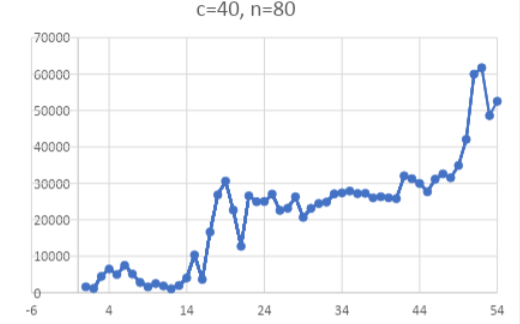
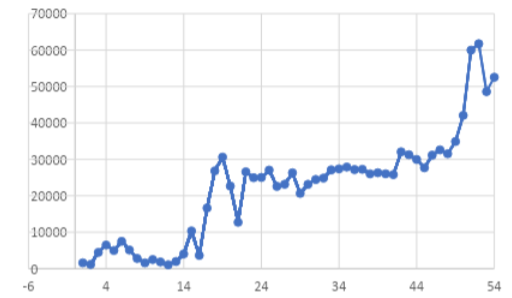
upd minor on charts

diff --git a/leader/includes/chart.html b/leader/includes/chart.html
@@ -2,107 +2,124 @@
 <script src="https://code.highcharts.com/modules/exporting.js"></script>
 <script src="https://code.highcharts.com/modules/export-data.js"></script>
 <script src="https://code.highcharts.com/modules/accessibility.js"></script>
-
-        <div class="row h-50 d-inline-block w-100" id="chartwrapper">
-          <div id="container"></div>
-          <script>
-            var chart = Highcharts.chart("container",
-              {
+<style>
+    #chartwrapper {
+        min-height: 400px !important; /* Adjust based on your preference */
+    }
+</style>
+<div class="row h-50 d-inline-block w-100" id="chartwrapper">
+    <div id="container"></div>
+    <script>
+        var chart = Highcharts.chart("container",
+            {
+                legend: {
+                    enabled: true,
+                    layout: 'vertical', // Options: 'horizontal' or 'vertical'
+                    align: 'right',      // Positioning: 'left', 'center', 'right'
+                    verticalAlign: 'top', // 'top', 'middle', 'bottom'
+                    x: -10, // Adjust horizontal positioning (move left/right)
+                    y: 50,  // Adjust vertical positioning (move up/down)
+                    floating: true, // Allows the legend to be placed over the chart
+                    backgroundColor: 'rgba(255, 255, 255, 0.8)', // Optional: Adds a transparent white background for better visibility
+                    borderRadius: 5,  // Optional: Adds rounded corners
+                    borderWidth: 1, // Optional: Adds a border
+                    shadow: false // Optional: Removes shadow
+                },
                 exporting: {
-                  enabled: false,
+                    enabled: false,
                 },
                 credits: {
-                  enabled: false,
+                    enabled: false,
                 },
                 chart: {
 
-                  type: "line",
+                    type: "line",
 
-                  height: "400px",
+                    height: "500px",
                 },
                 title: {
-                  text: "Sales of ACME Corp.",
+                    text: "Sales of ACME Corp.",
                 },
                 subtitle: {
-                  text: "",
+                    text: "",
                 },
                 xAxis: {
-                  allowDecimals: false,
-                  reversed: false,
-                  title: {
-                    enabled: true,
-                    text: "Months",
-                  },
+                    allowDecimals: false,
+                    reversed: false,
+                    title: {
+                        enabled: true,
+                        text: "Months",
+                    },
 
-                  maxPadding: 0.05,
-                  showLastLabel: true,
+                    maxPadding: 0.05,
+                    showLastLabel: true,
                 },
                 yAxis: {
-                  title: {
-                    text: "sales $M",
-                  },
-                  labels: {
-                    format: "{value}",
-                  },
-                  
-                  lineWidth: 2,
+                    title: {
+                        text: "sales $M",
+                    },
+                    labels: {
+                        format: "{value}",
+                    },
+
+                    lineWidth: 2,
                 },
-                legend: {
-                  enabled: true,
-                },
+
                 tooltip: {
-                  headerFormat: "<b>{series.name}</b><br/>",
-                  pointFormat: " {point.y}",
+                    headerFormat: "<b>{series.name}</b><br/>",
+                    pointFormat: " {point.y}",
                 },
                 plotOptions: {
-                  series: {
-                    states: {
-            inactive: {
-                opacity: 1
-            }
-        },
-                    marker: {
-                      
-                      symbol: 'circle',
-                      enable: true,
-                      radius:5
+                    series: {
+                        states: {
+                            inactive: {
+                                opacity: 1
+                            }
+                        },
+                        marker: {
+
+                            symbol: 'circle',
+                            enable: true,
+                            radius: 5
+                        },
                     },
-                  },
                 },
-                
-                series: [ 
-                        {{if view.round_number > 1 }} 
-                    {name:'Your forecast',
-                        data:{{group.prognosis_data|json}},
+
+                series: [
+                    {{if view.round_number > 1 }}
+                    {
+                        name: 'Your forecast',
+                        data: {{group.prognosis_data|json}},
                         dashStyle: 'ShortDot'
                     },
-                    {name:'True values',
-                        data:{{group.true_values|json}},
+                    {
+                        name: 'True values',
+                        data: {{group.true_values|json}},
                         dashStyle: 'Solid'
                     },
                     {{endif}}
-                  {
-                    
-                    name:'Previous values',
-                    data: {{C.GRAPHS_DATA|json}},
-                    
-                  },
+                    {
+
+                        name: 'Previous values',
+                        data: {{C.GRAPHS_DATA|json}},
+
+                    },
                 ],
-              },
-              function (chart) {
+            },
+            function (chart) {
                 var setHeight = function () {
-                  let box = document.getElementById("chartwrapper");
-                  let width = box.offsetWidth;
-                  let height = box.offsetHeight;
-                  chart.setSize(width, height - 20);
+                    let box = document.getElementById("chartwrapper");
+                    let width = box.offsetWidth;
+                    let height = box.offsetHeight;
+                    chart.setSize(width, height - 20);
                 };
 
                 $(window).resize(setHeight);
 
                 setHeight();
-              }
-            );
-          </script>
-        </div>
+            }
+        );
+    </script>
+</div>
     
      

diff --git a/leader/includes/short_instructions.html b/leader/includes/short_instructions.html
@@ -1407,7 +1407,7 @@ ul
 
    <div class=WordSection1>
     <p class=MsoNormal style='text-align:justify;line-height:normal'>
-    We have a historical sales data with 48 monthly data points, and we need to forecast the impact of a sales promotion that will run from periods 49 to 54. Notably, a similar sales promotion was conducted in the past during periods 16 to 23. Using the data from this previous sales promotion and any other information in the time series you find useful, please generate the forecast ACME Inc.’s sales for the new promotion
+    <b>We have a historical sales data with 48 monthly data points, and we need to forecast the impact of a sales promotion that will run from periods 49 to 54. Notably, a similar sales promotion was conducted in the past during periods 16 to 23. </b> Using the data from this previous sales promotion and any other information in the time series you find useful, please generate the forecast ACME Inc.’s sales for the new promotion
     </p>
 </div>
 <div class=WordSection1>

diff --git a/leader/includes/time.html b/leader/includes/time.html
@@ -1,6 +1,6 @@
 <div class=WordSection1>
     <p class=MsoNormal style='text-align:justify;line-height:normal'>
-    We have a historical sales data with 48 monthly data points, and we need to forecast the impact of a sales promotion that will run from periods 49 to 54. Notably, a similar sales promotion was conducted in the past during periods 16 to 23. Using the data from this previous sales promotion and any other information in the time series you find useful, please generate the forecast ACME Inc.’s sales for the new promotion
+    <b>We have a historical sales data with 48 monthly data points, and we need to forecast the impact of a sales promotion that will run from periods 49 to 54. Notably, a similar sales promotion was conducted in the past during periods 16 to 23. </b> Using the data from this previous sales promotion and any other information in the time series you find useful, please generate the forecast ACME Inc.’s sales for the new promotion
     </p>
 </div>
 <div class=WordSection1>
